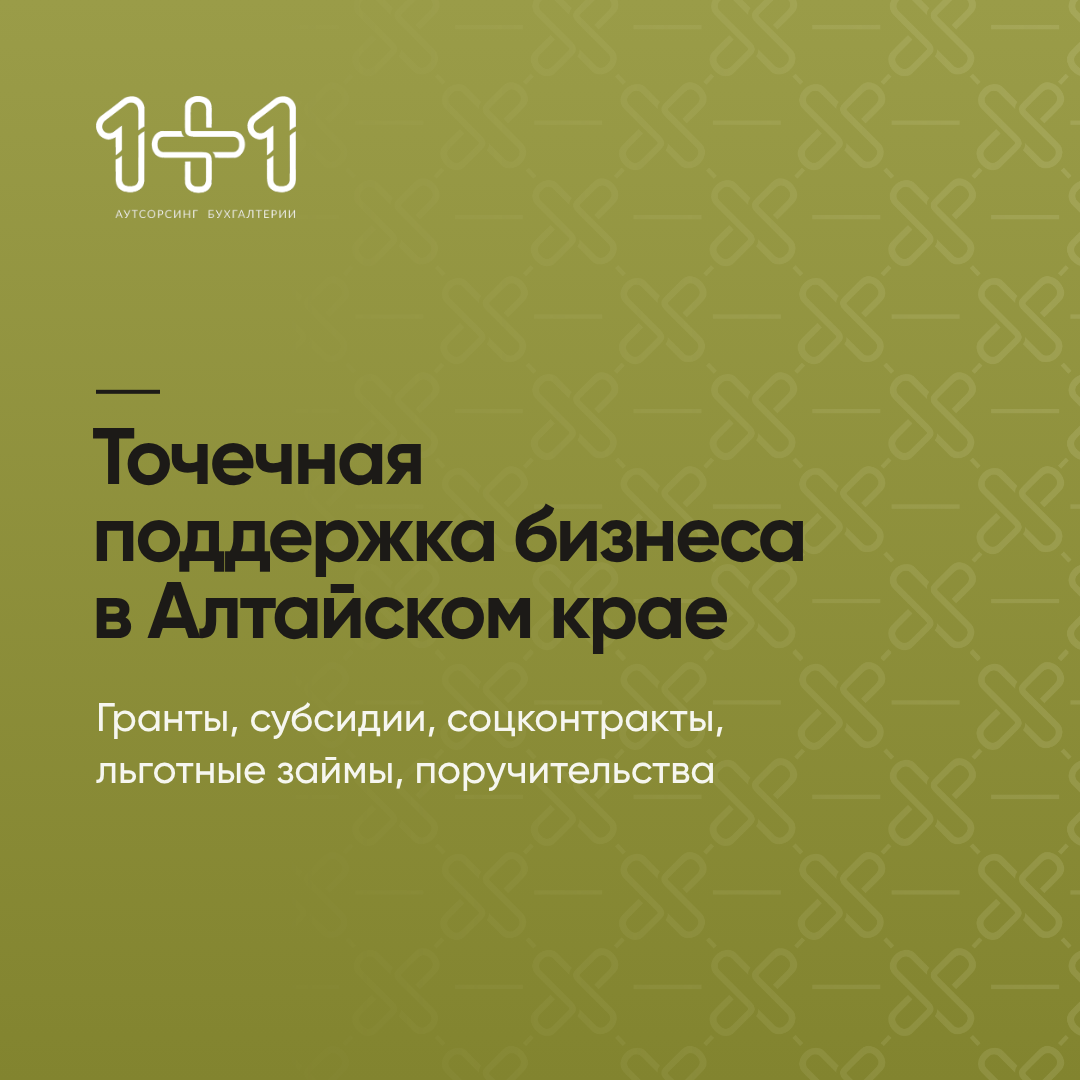
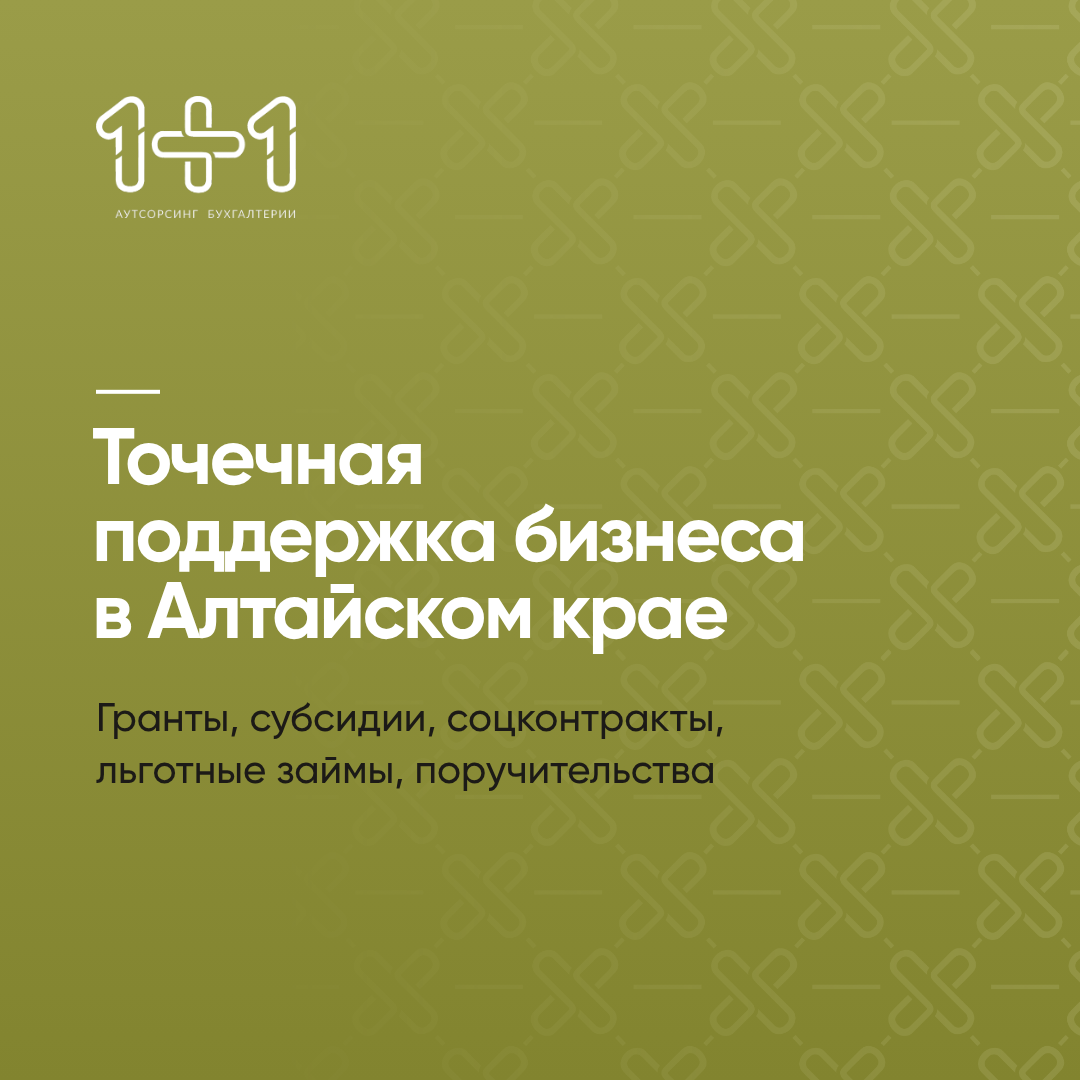
Зелёный макет: заголовок белый, пояснение графитовое
Claude-Session: https://claude.ai/code/session_01VZ7Hrkur6jxoGp5f6QSiLJ

Changed region(s): [[0.0917, 0.3972, 0.7639, 0.6111], [0.0917, 0.6417, 0.6722, 0.7333], [0.0917, 0.3361, 0.1528, 0.3667]]

diff --git a/examples/support-c2.html b/examples/support-c2.html
@@ -1,6 +1,6 @@
 <!doctype html><html lang="ru"><head><meta charset="utf-8"><title>Точечная поддержка · V3 зелёный, графит</title>
 <link rel="stylesheet" href="../templates/base.css">
-<style>.l{margin-top:40px;font-weight:500;font-size:40px;line-height:1.3;color:rgba(255,255,255,.92)}.canvas .dash{background:#1C1A17!important}.text-mid{color:#1C1A17}.l b{display:block;margin-top:18px;font-weight:700;color:#fff;font-size:54px}</style></head><body>
+<style>.l{margin-top:40px;font-weight:500;font-size:40px;line-height:1.3;color:#1C1A17}.canvas .dash{background:#fff!important}.text-mid{color:#fff}.h-l{color:#fff}.l b{display:block;margin-top:18px;font-weight:700;color:#fff;font-size:54px}</style></head><body>
 <div class="canvas green dark"><div class="pattern"></div>
 <img class="logo" src="../assets/logo-full-white.png" alt="">
 <div class="text-mid"><div class="dash"></div>

diff --git a/registry/LOG.md b/registry/LOG.md
@@ -48,5 +48,5 @@
 | 2026-10-21-24 | 2026-10-21 | Форум «Сказочная бухгалтерия», сторис I с кремовыми плашками-таблетками | E1 | светлый + фиолетовая панель | event/girl-abacus | PRO красным в кремовой таблетке | — | предложен | story-i-pill; story-i: PRO красным без плашек |
 | 2026-10-21-25 | 2026-10-21 | Точечная поддержка бизнеса в Алтайском крае: гранты, субсидии… | V11 | светлый | team/color-0551 | черта | — | предложен | support-a: фото в рамке (раньше был кадр 0259, он уже использован, заменён) |
 | 2026-10-21-26 | 2026-10-21 | Точечная поддержка бизнеса в Алтайском крае: гранты, субсидии… | V8 | светлый | team/plaster-0356 | «Как получить?» | — | предложен | support-b: полоса с командой на весь низ, заголовок 80 в 3 строки (раньше был флэтлей 0677, он уже использован, заменён) |
-| 2026-10-21-27 | 2026-10-21 | Точечная поддержка бизнеса в Алтайском крае: гранты, субсидии… | V3 | зелёный | — | вопрос | — | предложен | support-c; без «Как получить?» |
-| 2026-10-21-28 | 2026-10-21 | Точечная поддержка бизнеса в Алтайском крае: гранты, субсидии… | V3 | зелёный, графитовый текст | — | графит | — | предложен | support-c (весь текст графит), support-c2 (заголовок графит, пояснение белым) |
+| 2026-10-21-27 | 2026-10-21 | Точечная поддержка бизнеса в Алтайском крае: гранты, субсидии… | V3 | зелёный | — | вопрос | — | предложен | support-c (весь текст графит), support-c2 (заголовок белый, пояснение графит) |
+| 2026-10-21-28 | 2026-10-21 | Точечная поддержка бизнеса в Алтайском крае: гранты, субсидии… | V3 | зелёный, графитовый текст | — | графит | — | предложен | support-c (весь текст графит), support-c2 (заголовок белый, пояснение графит) |
